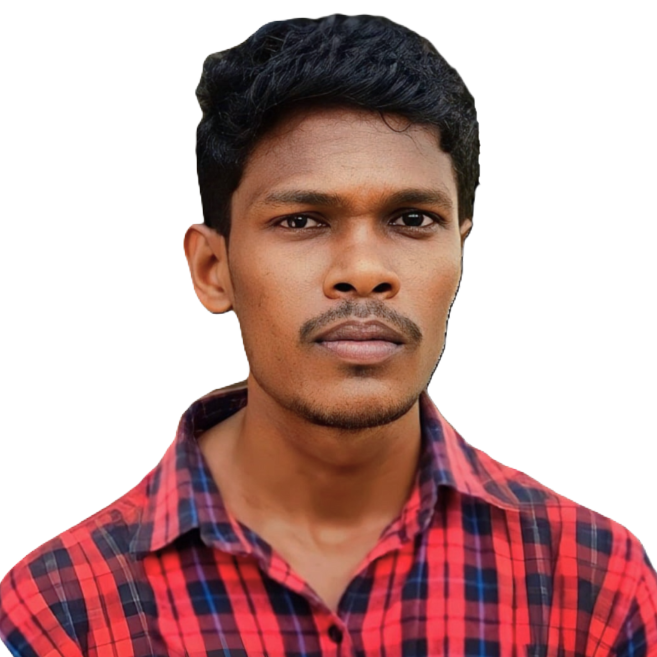
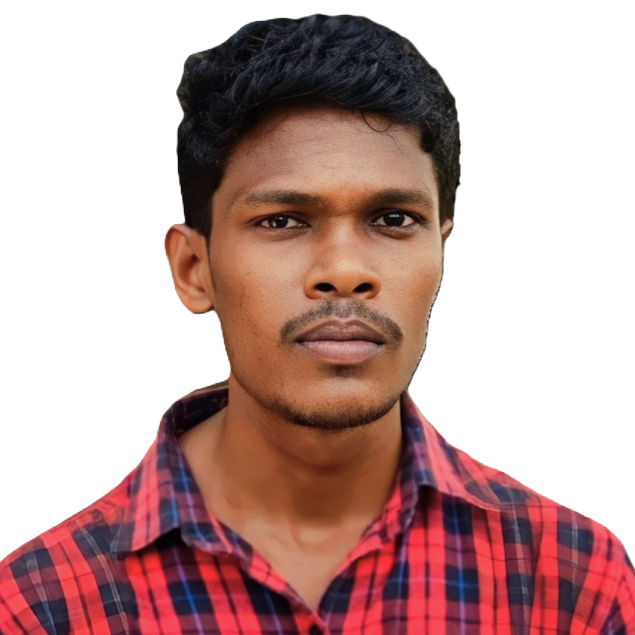
updated image style

diff --git a/style.css b/style.css
@@ -159,7 +159,7 @@ section#about{
 }
 .outer-card{
     width:17vw;
-    height:22vw; 
+    height:21.8vw; 
     border-radius: 2vw;
     border: 1px solid white;
 }
@@ -169,19 +169,21 @@ section#about{
 
 div.about-img{
     background-image: url(./images/about.png);
-    background-color: rgb(9, 9, 67);
+    background-color: aqua;
     background-size: cover;
     background-repeat: no-repeat;
-    width: 16.8vw;
+    width: 16.9vw;
     height: 17vw;
     margin: auto;
     z-index: -1;
     border-top-left-radius: 2vw;
     border-top-right-radius: 2vw; 
-    opacity: 0.8; 
+     
 }
 div.about-img:hover{
-    background-color: aqua;
+    
+    background-color: rgb(6, 6, 45);
+    
 }
 .my-name{
     background-color:  white;
@@ -384,7 +386,7 @@ section#contact{
      .outer-card{
         padding-bottom: 0px;
         width:35.2vw;
-        height:43vw; 
+        height:42.5vw; 
         margin: auto;   
     }
    
@@ -438,12 +440,15 @@ section#contact{
         padding-bottom: 0%;
         width:50.2vw;
         height:auto; 
-        margin: auto;   
+        margin: auto;
+        box-shadow: 1px 1px 1px white;
+        
     }
      div.about-img{ 
-      width: 49vw;
+      width: 50vw;
       height: 50vw ;
-      margin: auto;
+      margin: 0%;
+      
       
      }
 

diff --git a/index.html b/index.html
@@ -67,9 +67,9 @@
                 <p class="text-white fw-bold pb-2">Hello! I'm <span class="text-info" style="font-family: serif;">Kishore</span>, a passionate and motivated full-stack developer. With a strong foundation in both front-end and back-end technologies, I am eager to build and maintain dynamic web applications. My goal is to create seamless user experiences and efficient server-side functionality.</p>
             </div>
             <div class="mx-auto outer-card">
-            <div class="col-sm-12 col-md-6 col-lg-5 about-img"></div>
+            <div class="col-sm-12 col-md-6 my-0 col-lg-5 about-img"></div>
             <h2 class="fw-bold my-0 my-name">Kishore</h2>
-            <h3 class="fw-bold sur-name">Subramani</h3>
+            <h3 class="fw-bold my-0 sur-name">Subramani</h3>
             </div>
             
         </section>
